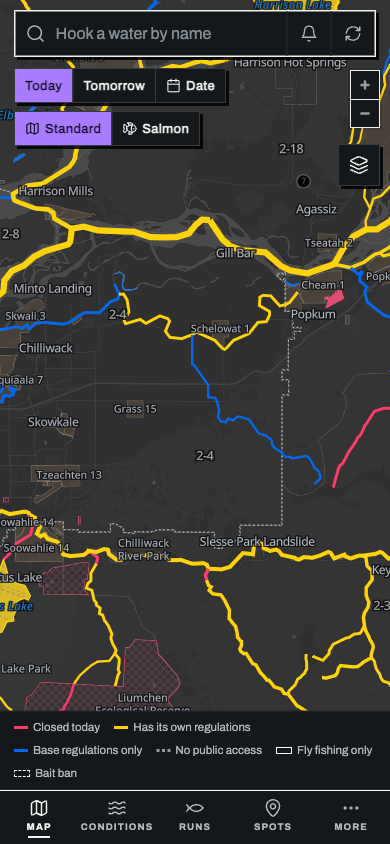
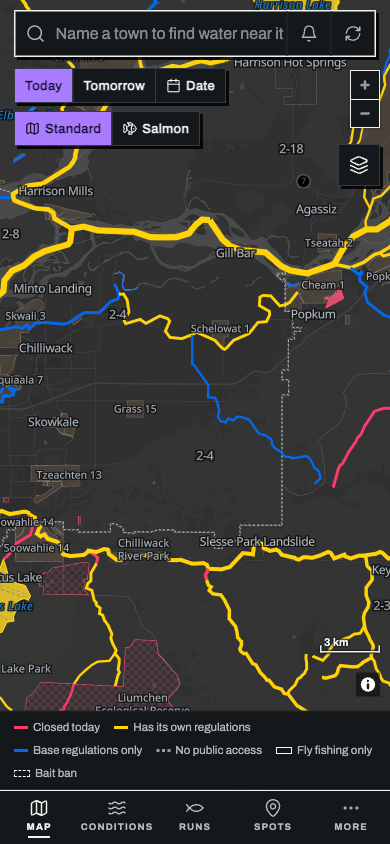
T275: credits and scale lifted above the legend per mode (insetBottom), map rect unchanged

Changed region(s): [[0.1538, 0.0308, 0.7385, 0.0616], [0.8923, 0.7701, 0.9846, 0.8318], [0.8308, 0.7393, 0.8923, 0.8009]]

diff --git a/app/packages/ui-native/src/Shell.tsx b/app/packages/ui-native/src/Shell.tsx
@@ -104,6 +104,8 @@ export function Shell(p: ShellProps) {
   /** (T166) Whether the tidal water sheet is up (a tap on tidal water, no water under it). */
   const [tidalOpen, setTidalOpen] = useState(false);
   /** (T199) The section a tap asked about under Run timing (its runs sheet), else null. */
+  // (T275) the foot block's height, for the credits and scale above it
+  const [footH, setFootH] = useState(0);
   const [runsAt, setRunsAt] = useState<number | null>(null);
   /**
    * The camera survives leaving the map.
@@ -118,6 +120,8 @@ export function Shell(p: ShellProps) {
   const waterCamera = useRef<Camera | null>(null);
   const search = useShellSearch({ source, nav, camera, recentStore: p.recentSearches ?? null });
   const { searching, session, searchMemory, field } = search;
+  // (T269) a page started on (or at) a water: the map comes back at it, lit
+  useEffect(() => { if (p.arriveAt) search.landOn(p.arriveAt); }, []);   // eslint-disable-line react-hooks/exhaustive-deps -- once, on mount
   useEscapeBack(nav.back, nav.escapeBack && !searching);   // T214 item 2: on the desktop web Escape is Back (a no-op on a phone)
   /** ONE placeholder line per opening of the app, never cycled while on screen. */
   const [placeholder] = useState(() => placeholderFor(Math.random() * 1e6));
@@ -258,7 +262,7 @@ export function Shell(p: ShellProps) {
                      waterCamera={waterCamera} fishImages={p.fishImages} adiposeImages={p.adiposeImages}
                      mapDay={mapDay} onDay={setMapDay} start={start} onStarted={() => setStart(null)} />
     : <BrowseHost nav={nav} col={col} search={search} rail={rail} palette={palette} theme={theme}
-                  themeName={p.themeName} onTheme={p.onTheme} tiles={tiles} camera={camera} insetTop={barBottom}
+                  themeName={p.themeName} onTheme={p.onTheme} tiles={tiles} camera={camera} insetTop={barBottom} insetBottom={footH}
                   spots={spots} spotsShown={spotsShown} spotLayer={spotLayer} spotsError={p.spotsError}
                   onRefreshSpots={p.onRefreshSpots} refreshing={p.refreshing} locate={locate} photos={photos}
                   loader={loader} syncState={syncState} menu={menu} menuInfo={menuInfo} mapDay={mapDay}
@@ -329,7 +333,8 @@ export function Shell(p: ShellProps) {
           block's height changes with the mode (Standard / Salmon / Runs / Conditions) and as a flex sibling it resized the
           map each time; now the map keeps its size and camera, and only the block changes. */}
       <View testID="map-foot" style={{ height: 0, zIndex: 1 }} pointerEvents="box-none">
-        <View style={{ position: "absolute", left: 0, right: 0, bottom: 0 }} pointerEvents="box-none">
+        <View style={{ position: "absolute", left: 0, right: 0, bottom: 0 }} pointerEvents="box-none"
+              onLayout={(e) => setFootH(Math.round(e.nativeEvent.layout.height))}>
           {showLegend && (
             <MapLegend col={col} conditions={tab === "conditions"} palette={palette} theme={theme} mapDay={mapDay} />
           )}

diff --git a/app/packages/ui-native/src/shell/BrowseHost.tsx b/app/packages/ui-native/src/shell/BrowseHost.tsx
@@ -29,13 +29,13 @@ import type { ShellSearch } from "./useShellSearch";
 const NONE: readonly SectionKey[] = [];
 const NONE_PINS: readonly never[] = [];
 
-export function BrowseHost({ nav, col, search, rail, palette, theme, themeName, onTheme, tiles, camera, insetTop,
+export function BrowseHost({ nav, col, search, rail, palette, theme, themeName, onTheme, tiles, camera, insetTop, insetBottom,
                              spots, spotsShown, spotLayer, spotsError, onRefreshSpots, refreshing, locate,
                              photos, loader, syncState, menu, menuInfo, mapDay, onSaveSpot, onLayers, onRegion,
                              offline = null, onDay, onOpenDay, dayRange, onObstacle, onTidal, onRuns, fishImages }: {
   nav: ShellNav; col: MapColouring; search: ShellSearch; rail: MapRail; palette: Palette; theme: string;
   themeName: ThemeName; onTheme: (t: ThemeName) => void; tiles: TileEndpoints; camera: MutableRefObject<Camera>;
-  insetTop: number; spots: readonly Spot[]; spotsShown: boolean; spotLayer: MapSpots | undefined;
+  insetTop: number; insetBottom: number; spots: readonly Spot[]; spotsShown: boolean; spotLayer: MapSpots | undefined;
   spotsError?: string | null; onRefreshSpots?: () => void | Promise<void>; refreshing?: boolean;
   locate: Locate | null; photos?: SpotPhotos; loader: ReleaseLoader | null; syncState: SyncState;
   menu: MenuControls; menuInfo?: MenuInfo; mapDay: Date | null;
@@ -155,7 +155,7 @@ export function BrowseHost({ nav, col, search, rail, palette, theme, themeName, 
         ? <MapScreen at={tiles} palette={palette} theme={theme}
                      camera={camera.current}
                      // (T48) the top bar over the map: the corner's chips, the rail and the web map's controls go under it
-                     insetTop={insetTop}
+                     insetTop={insetTop} insetBottom={insetBottom}
                      // the provisional pin a long press dropped, else the spot "Show" sent the map to — unless the
                      // spots are drawn, when that spot's own (selected) pin marks it (T131)
                      marker={rail.marker(spotsShown)}
@@ -175,7 +175,8 @@ export function BrowseHost({ nav, col, search, rail, palette, theme, themeName, 
                          : restore ? { key: restore.key, bbox: null, camera: restore.camera } : null}
                      // WHAT SEARCH LIGHTS, whole, while search is open — on either map; closed, nothing (the Conditions
                      // view lights a gauge's route with the same feature-state and must not inherit a search)
-                     highlight={searching ? session.focus?.highlight ?? NONE : NONE}
+                     // (T269) — and, arrived at a page's own water (its ‹ / × back to the map), that water
+                     highlight={searching ? session.focus?.highlight ?? NONE : arrive?.highlight ?? NONE}
                      standing={cond.standing}
                      lakes={lakeFeed}
                      salmon={salmonFeed}

diff --git a/app/packages/ui-native/src/MapScreen.tsx b/app/packages/ui-native/src/MapScreen.tsx
@@ -21,7 +21,7 @@ export function MapScreen({ at, palette, theme, view, modes, groups, hide, show,
                             onLayers, layersChanged = 0, onLongPress, onPressFeature, onPressObstacle, onPressTidal, onMoved, onMapPoint, horizons,
                             highlight, marker, pins, status, standing, lakes, salmon, method, runs, gauges, onVisible, onError,
                             fit, basemap, onImageryError, water, waterLine, selection, marks, onPressMark, spots,
-                            insetTop = 0, onRegion, corner }: {
+                            insetTop = 0, insetBottom = 0, onRegion, corner }: {
   at: TileEndpoints; palette: Palette; theme: string; view: string;
   groups?: Record<string, boolean>;
   /** Layers this view does not draw — see `hiddenLayers`. Not a user toggle. */
@@ -95,6 +95,8 @@ export function MapScreen({ at, palette, theme, view, modes, groups, hide, show,
    * web map's own controls start under it. 0: no bar.
    */
   insetTop?: number;
+  /** (T275) the foot block over the map, px: the credits and scale sit above it (MapProps.insetBottom). */
+  insetBottom?: number;
   /** (T186) The region under the centre, each settle — see MapProps.onRegion (the web prefetch's). */
   onRegion?: MapProps["onRegion"];
 }) {
@@ -105,7 +107,7 @@ export function MapScreen({ at, palette, theme, view, modes, groups, hide, show,
       <Map at={at} theme={theme} view={view} modes={modes} groups={groups} hide={hide} show={show}
            initial={camera}
            onPressFeature={onPressFeature} onPressObstacle={onPressObstacle} onPressTidal={onPressTidal} onMoved={onMoved} onMapPoint={onMapPoint} onLongPress={onLongPress}
-           highlight={highlight} pins={pins} spots={spots} insetTop={insetTop} water={water} waterLine={waterLine} selection={selection} marks={marks} onPressMark={onPressMark} marker={marker} status={status} standing={standing} lakes={lakes} salmon={salmon} method={method} runs={runs}
+           highlight={highlight} pins={pins} spots={spots} insetTop={insetTop} insetBottom={insetBottom} water={water} waterLine={waterLine} selection={selection} marks={marks} onPressMark={onPressMark} marker={marker} status={status} standing={standing} lakes={lakes} salmon={salmon} method={method} runs={runs}
            gauges={gauges}
            onVisible={onVisible} onError={onError} fit={fit} basemap={basemap} onImageryError={onImageryError}
            onRegion={onRegion} />

diff --git a/app/packages/map/src/Map.native.tsx b/app/packages/map/src/Map.native.tsx
@@ -82,7 +82,7 @@ export function Map({ at, theme, view, modes, groups, hide, show, initial, data,
                       onMoved, onMapPoint, onLongPress, highlight, water, waterLine, selection = "outline", marker, style, gauges,
                       onVisible, pins, bare, fit, status, standing, lakes, salmon, method, runs,
                       basemap, marks, onPressMark, spots, onImageryError: _noTileErrors,
-                      onRegion: _noPrefetch }: MapProps) {
+                      onRegion: _noPrefetch, insetBottom = 0 }: MapProps) {
   // `onRegion` is accepted and never called: it feeds the WEB's prefetch, and a phone holds the release installed.
   // `onImageryError` is accepted and never called: the binding has no per-tile error event. A phone learns the imagery
   // is unreachable from `useImageryReach`'s probe instead (satellite is online-only, owner 2026-10-21).
@@ -478,6 +478,7 @@ export function Map({ at, theme, view, modes, groups, hide, show, initial, data,
         {...nativeMapGestures()}
         // a bare map is an illustration: no furniture. Attribution goes with it (the page credits the data, MapProps.bare)
         attribution={!bare}
+        attributionPosition={{ bottom: 8 + insetBottom, right: 8 }}
         logo={false}
         // OURS is drawn below (`metricScale`): the binding's is top-left only on Android, in the device's units. But
         // the binding's must EXIST on Android: switched off, the map's surface left a black hole over the next screen
@@ -562,7 +563,7 @@ export function Map({ at, theme, view, modes, groups, hide, show, initial, data,
         // the map's surface left a black rectangle over the next screen on Android when it unmounted (emulator, N2
         // review; the unwrapped map does not)
         <View pointerEvents="none" accessibilityLabel="scale"
-              style={{ position: "absolute", right: 10, bottom: 24, width: Math.round(scale.width) }}>
+              style={{ position: "absolute", right: 10, bottom: 24 + insetBottom, width: Math.round(scale.width) }}>
           <Text numberOfLines={1}
                 style={{ color: furniture.ink, fontSize: 11, lineHeight: 13, letterSpacing: 0.2, paddingLeft: 4,
                          marginBottom: 2, fontFamily: "Archivo_600SemiBold", fontVariant: ["tabular-nums"],

diff --git a/app/packages/map/src/Map.web.tsx b/app/packages/map/src/Map.web.tsx
@@ -44,7 +44,7 @@ export function Map({ at, theme, view, modes, groups, hide, show, initial, data,
                       onError, onMoved, onMapPoint, onLongPress, highlight, water, waterLine, selection = "outline", marker,
                       style,
                       gauges, onVisible, pins, bare, fit, basemap, trace, onImageryError,
-                      zoomControls, status, standing, lakes, salmon, method, runs, marks, onPressMark, spots, insetTop = 0, onRegion }: MapProps) {
+                      zoomControls, status, standing, lakes, salmon, method, runs, marks, onPressMark, spots, insetTop = 0, insetBottom = 0, onRegion }: MapProps) {
   const refs = useWebMapRefs(onError);
   // (T243) the camera's own glides jump while the OS asks for reduced motion (`motion.ts`)
   useEffect(() => {
@@ -104,7 +104,9 @@ export function Map({ at, theme, view, modes, groups, hide, show, initial, data,
     "--map-icon-filter": furniture.iconFilter,
     // (T48) the app's own bar over the map's top: the top-right controls start under it
     "--map-inset-top": `${insetTop}px`,
-  } as React.CSSProperties), [furniture, insetTop]);
+    // (T275) a block over the map's foot: the credits and the scale sit above it
+    "--map-inset-bottom": `${insetBottom}px`,
+  } as React.CSSProperties), [furniture, insetTop, insetBottom]);
 
   // the spots' layer is the map's sibling, over it in the same box (the host is the map's: MapLibre owns its children)
   return <>

diff --git a/app/packages/map/src/map-props.ts b/app/packages/map/src/map-props.ts
@@ -310,6 +310,11 @@ export interface MapProps {
    */
   insetTop?: number;
   /**
+   * (T275) How much of the map's bottom a block drawn over it covers (the legend), in px: the credits (attribution) and the
+   * scale are lifted above it. Only those two move: the map's size and camera never do. 0 when absent.
+   */
+  insetBottom?: number;
+  /**
    * The ground under the water: the drawn basemap, or satellite imagery.
    *
    * A property of the MAP, not a layer group a screen may address: the imagery is an

diff --git a/app/packages/map/src/controls.css b/app/packages/map/src/controls.css
@@ -27,6 +27,8 @@
  * compass) starts under it rather than behind it. `--map-inset-top` is always set by the map (0 when no bar).
  */
 .maplibregl-ctrl-top-right { top: var(--map-inset-top); }
+/* (T275) the credits and the scale stay above a block drawn over the map's foot */
+.maplibregl-ctrl-bottom-right, .maplibregl-ctrl-bottom-left { bottom: var(--map-inset-bottom, 0px); }
 
 .maplibregl-ctrl-group {
   border-radius: 0;

diff --git a/handoff/PLAN/app-integration/tickets/T275-mode-switch-map-stays.md b/handoff/PLAN/app-integration/tickets/T275-mode-switch-map-stays.md
@@ -21,3 +21,5 @@ Salmon 137, Runs 259 px on a phone) changed the map's height on every mode switc
 Verified on web (Playwright, phone 390x844 and desktop 1280x800, Standard -> Salmon -> Standard -> Runs): the map canvas rect is
 identical in every frame (390x790 / 1280x746), only the foot changes. Frames: `T275-shots/`. Android: same component tree
 (`Shell.tsx`), no emulator run. ui-native suite 1317 pass.
+
+Credits (follow-up): `MapProps.insetBottom` (the foot's measured height, `Shell` onLayout) lifts the web attribution + scale (`--map-inset-bottom` in controls.css) and the native attribution (`attributionPosition`) + scale ruler above the legend; the map rect is untouched. Phone frames: attribution bottom 28 px above the foot in Standard/Salmon/Runs. tsc ui-native, mobile, map: exit 0.
